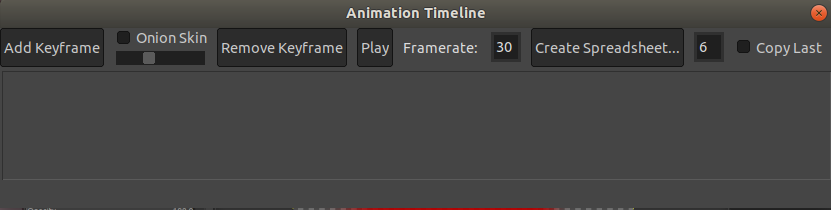
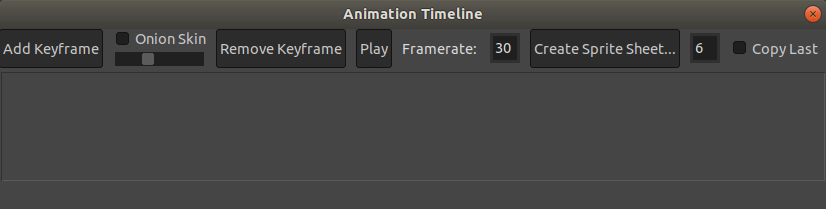
added preview image

diff --git a/timeline.c b/timeline.c
@@ -244,7 +244,7 @@ static gboolean animation_dialog()
   gtk_widget_set_size_request(framerateEntry, 30, 30);
   gtk_entry_set_max_length(GTK_ENTRY(framerateEntry), 3);
 
-  GtkWidget* ssButton = gtk_button_new_with_label("Create Sprite sheet...");
+  GtkWidget* ssButton = gtk_button_new_with_label("Create Sprite Sheet...");
   gtk_box_pack_start(GTK_BOX(topbuttons), ssButton, FALSE, FALSE, 0);
   gtk_widget_show(ssButton);
   g_signal_connect(ssButton, "pressed", G_CALLBACK(create_spritesheet), NULL);
